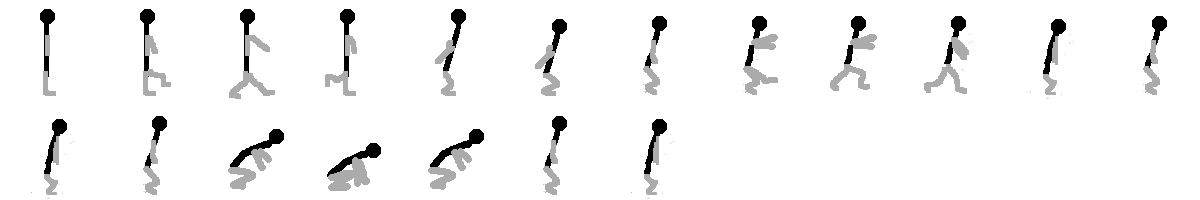
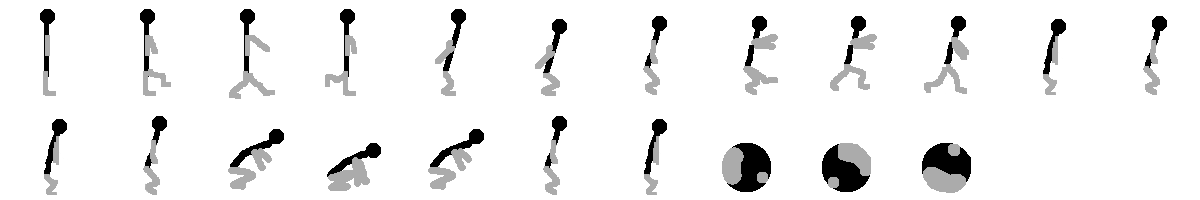
rollin rollin rollin rollin

Changed region(s): [[0.6783, 0.72, 0.74, 0.96], [0.5858, 0.72, 0.6475, 0.96], [0.7708, 0.72, 0.8325, 0.96]]

diff --git a/src/player.rs b/src/player.rs
@@ -21,12 +21,12 @@ enum PlayerState {
     CROUCHING,
     CROUCHED,
     UNCROUCHING,
+    ROLLING,
 }
 
 #[derive(Debug, Copy, Clone, Hash, Eq, PartialEq)]
 enum PlayerMovement {
     NOTHING,
-    WALK,
     HOP,
     CROUCH,
     UNCROUCH,
@@ -54,6 +54,7 @@ fn create_player(
     player_frames.insert(PlayerState::CROUCHING, (12 as usize, 14 as usize));
     player_frames.insert(PlayerState::CROUCHED, (15 as usize, 15 as usize));
     player_frames.insert(PlayerState::UNCROUCHING, (15 as usize, 18 as usize));
+    player_frames.insert(PlayerState::ROLLING, (19 as usize, 21 as usize));
 
     let player = Player {
         state: PlayerState::IDLE,
@@ -84,11 +85,10 @@ fn create_player(
 /// Or if there was no buffered input to process, we process the current input
 /// and buffer any new input if we are in a busy state
 fn update_player(
-    mut query: Query<(&mut Player, &mut Transform, &mut TextureAtlasSprite)>,
+    mut query: Query<(&mut Player, &mut TextureAtlasSprite)>,
     keys: Res<Input<KeyCode>>,
-    window_query: Query<&Window, With<PrimaryWindow>>,
 ) {
-    for (mut player, mut transform, mut texture) in &mut query {
+    for (mut player, mut texture) in &mut query {
         let mut was_input_pressed = false;
         if !player.animation_handler.is_playing {
             if player.next_movement == PlayerMovement::HOP {
@@ -113,7 +113,13 @@ fn update_player(
                             change_player_state(&mut player, PlayerState::WALKING);
                             player.is_facing_left = false;
                         }
-                        _ => {}
+                        PlayerState::CROUCHED | PlayerState::ROLLING => {
+                            change_player_state(&mut player, PlayerState::ROLLING);
+                            player.is_facing_left = false;
+                        }
+                        _ => {
+                            was_input_pressed = false;
+                        }
                     }
                 } else if keys.pressed(KeyCode::Left) {
                     was_input_pressed = true;
@@ -123,7 +129,13 @@ fn update_player(
                             change_player_state(&mut player, PlayerState::WALKING);
                             player.is_facing_left = true;
                         }
-                        _ => {}
+                        PlayerState::CROUCHED | PlayerState::ROLLING => {
+                            change_player_state(&mut player, PlayerState::ROLLING);
+                            player.is_facing_left = true;
+                        }
+                        _ => {
+                            was_input_pressed = false;
+                        }
                     }
                 } else if keys.pressed(KeyCode::Down) {
                     was_input_pressed = true;
@@ -131,7 +143,9 @@ fn update_player(
                         PlayerState::IDLE | PlayerState::CROUCHING => {
                             change_player_state(&mut player, PlayerState::CROUCHING);
                         }
-                        _ => {}
+                        _ => {
+                            was_input_pressed = false;
+                        }
                     }
                 } else if keys.pressed(KeyCode::Up) {
                     was_input_pressed = true;
@@ -139,7 +153,9 @@ fn update_player(
                         PlayerState::CROUCHED => {
                             change_player_state(&mut player, PlayerState::UNCROUCHING);
                         }
-                        _ => {}
+                        _ => {
+                            was_input_pressed = false;
+                        }
                     }
                 }
                 if keys.just_pressed(KeyCode::A) {
@@ -149,8 +165,9 @@ fn update_player(
 
                 texture.flip_x = player.is_facing_left;
 
-                let is_crouching =
-                    player.state == PlayerState::CROUCHING || player.state == PlayerState::CROUCHED;
+                let is_crouching = player.state == PlayerState::CROUCHING
+                    || player.state == PlayerState::CROUCHED
+                    || player.state == PlayerState::ROLLING;
 
                 if !was_input_pressed && !is_crouching {
                     change_player_state(&mut player, PlayerState::IDLE);
@@ -166,7 +183,9 @@ fn update_player(
             } else if keys.just_pressed(KeyCode::Down) {
                 player.next_movement = PlayerMovement::CROUCH;
             } else if keys.just_pressed(KeyCode::Up) {
-                player.next_movement = PlayerMovement::UNCROUCH;
+                if player.state == PlayerState::CROUCHED || player.state == PlayerState::ROLLING {
+                    player.next_movement = PlayerMovement::UNCROUCH;
+                }
             }
         }
     }
@@ -198,13 +217,16 @@ fn animate_player(
             // if walk / run / hop, move forwards
             if player_current_state == &PlayerState::WALKING
                 || player_current_state == &PlayerState::HOPPING
+                || player_current_state == &PlayerState::ROLLING
             {
                 // let mut move_step = window / NUM_TILES;
                 let window = window_query.get_single().unwrap();
                 let num_frames: f32 = anim.max_frame as f32 - anim.min_frame as f32 + 1 as f32;
                 let move_step = window.width() / NUM_TILES / num_frames;
 
-                if player_current_state == &PlayerState::WALKING {
+                if player_current_state == &PlayerState::WALKING
+                    || player_current_state == &PlayerState::ROLLING
+                {
                     // if walking, move fwd on all frames
                     if *is_left {
                         transform.translation.x -= move_step;
@@ -233,7 +255,14 @@ fn animate_player(
             }
 
             if anim.current_frame > anim_bounds.1 {
-                anim.current_frame = anim_bounds.1;
+                match player_current_state {
+                    &PlayerState::WALKING | &PlayerState::ROLLING => {
+                        anim.current_frame = anim_bounds.0;
+                    }
+                    _ => {
+                        anim.current_frame = anim_bounds.1;
+                    }
+                }
                 anim.is_playing = false;
             }
         }
